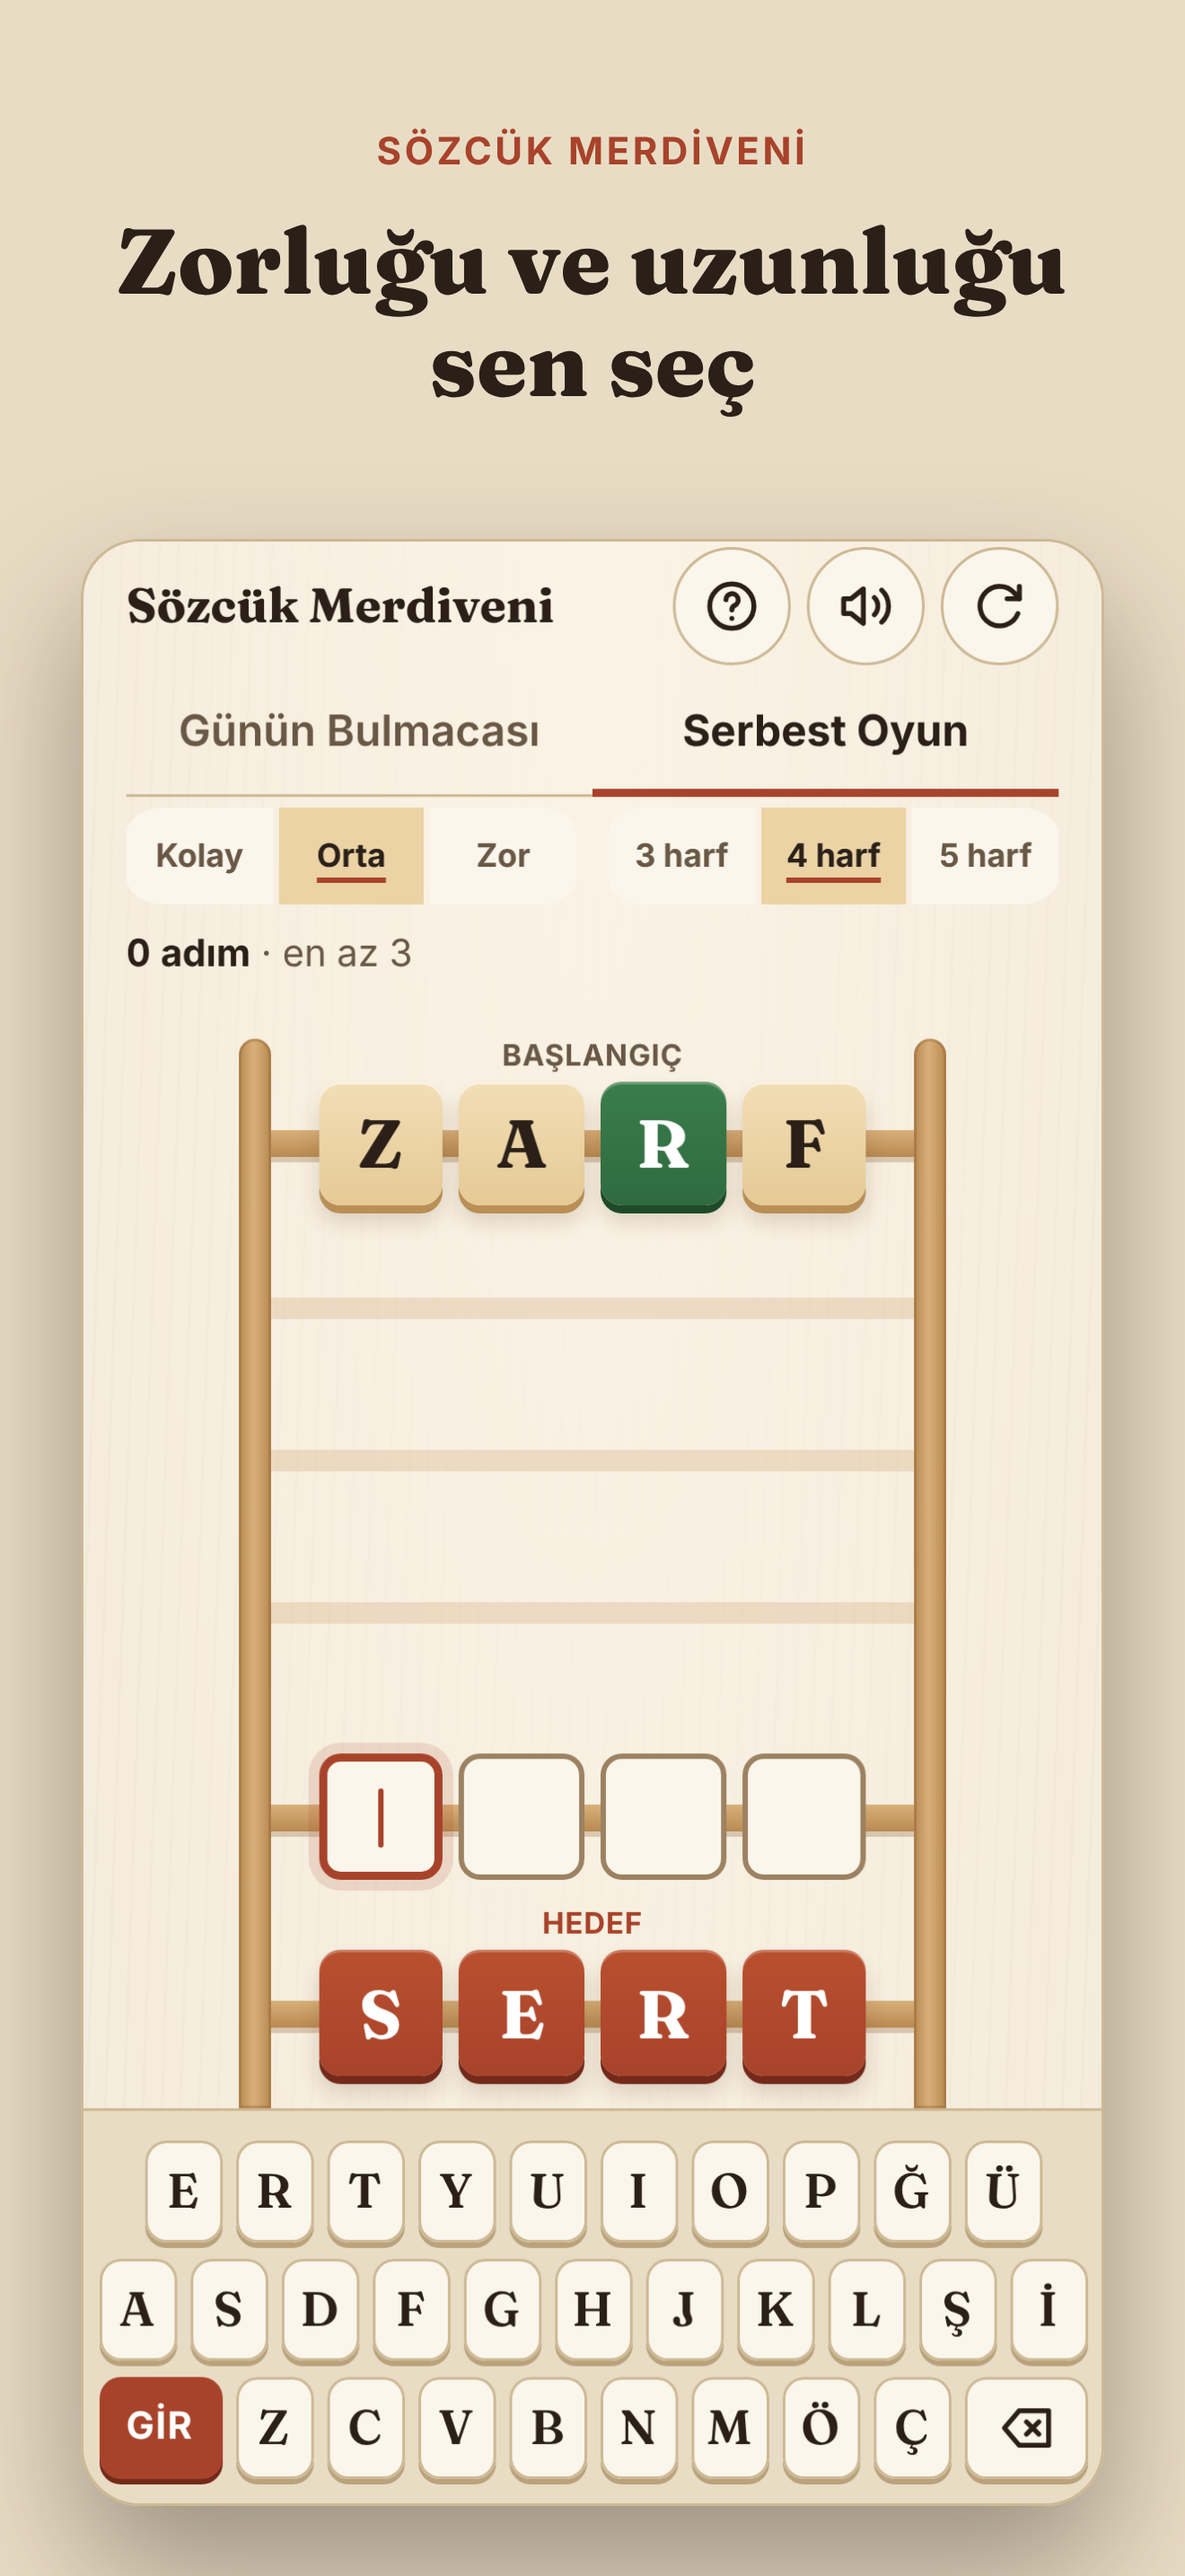
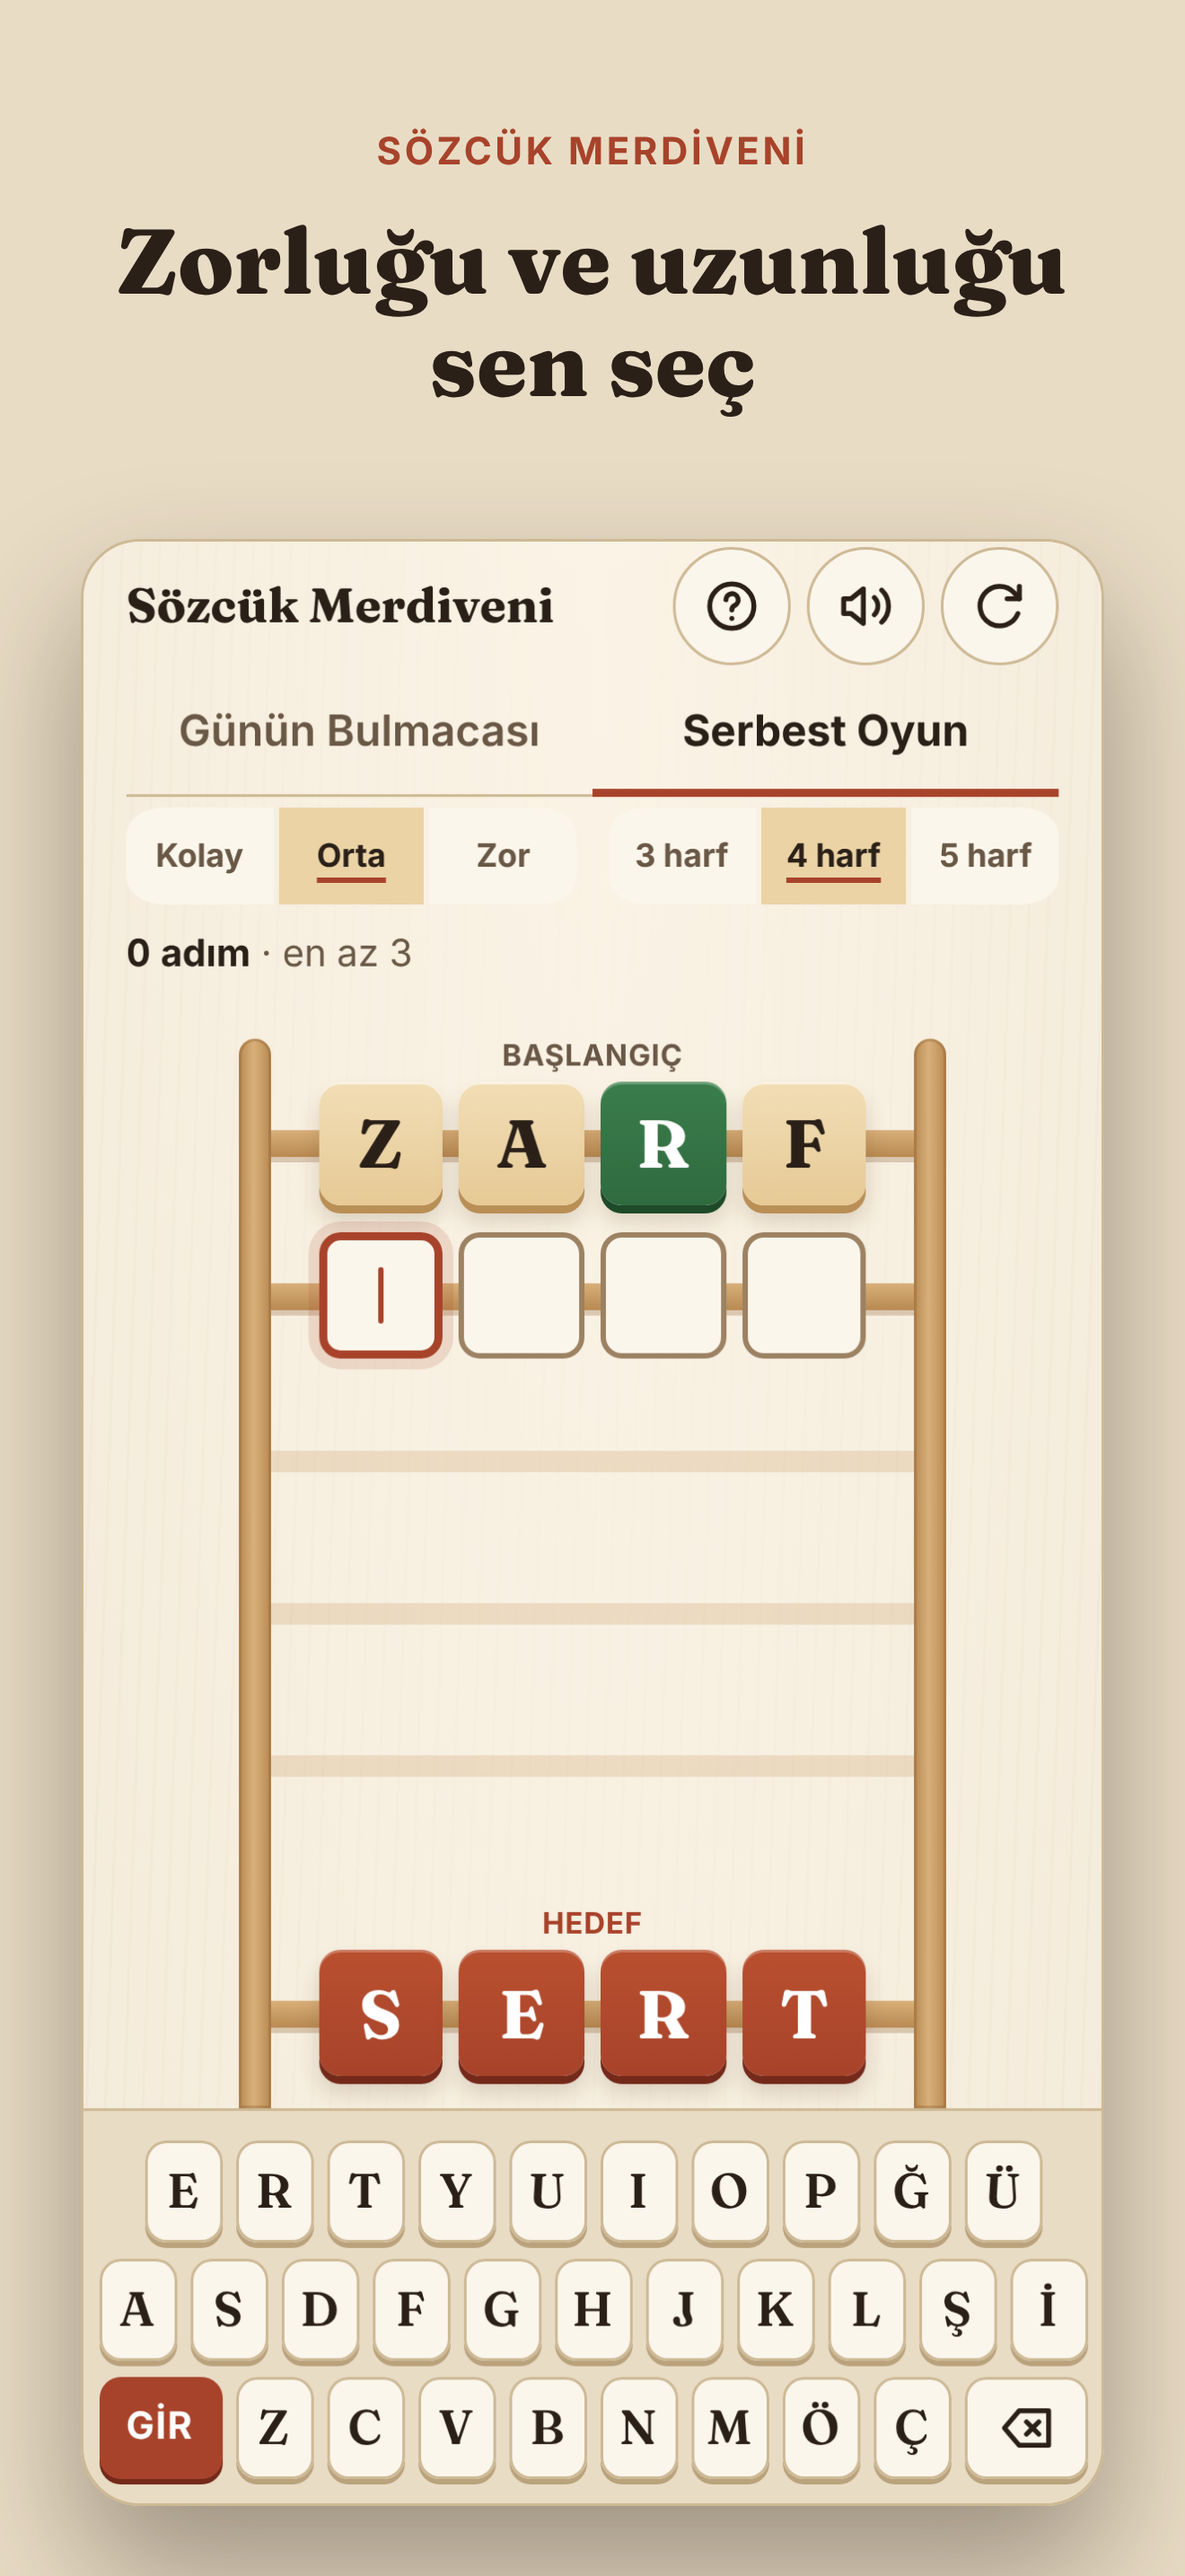
Ahşap: giriş satırı son kelimenin hemen altında
Sahibin isteği: giriş satırı HEDEF'in üstünde sabit durmak yerine son yazılan
kelimenin bir alt basamağında durur ve her adımda bir basamak iner. Altında
HEDEF'e kalan boş basamaklar, en altta HEDEF.

- Giriş basamağı kayan bölüme (.steps) taşındı; uzun merdivende bölüm sona
  kayar: son kelime, giriş satırı ve HEDEF görünür kalır.
- .steps en az iki basamak boyunda: kısa ve yatay ekranda son kelime ile
  giriş satırı görünür, merdiven klavyeye taşmaz (önceki düzeltme korunur).
- Test: giriş satırı son kelimenin hemen altında; HEDEF ile arasında boş
  basamak var.

Claude-Session: https://claude.ai/code/session_01C8YUUGzBwuF5YnZnuwjbBR

Changed region(s): [[0.2174, 0.4655, 0.7765, 0.5586], [0.2174, 0.6517, 0.7765, 0.7448]]

diff --git a/style.css b/style.css
@@ -376,8 +376,9 @@ button { font: inherit; color: inherit; }
 
 /* ---------- Oyun alanı: merdiven ----------
    Yukarıdan aşağı okunur: BAŞLANGIÇ en üstte, her adım bir alt basamağa,
-   HEDEF en altta (klavyenin hemen üstünde), giriş satırı HEDEF'in üstünde.
-   Uzun merdivende yalnızca üst bölüm (.steps) kayar; giriş ve HEDEF sabittir. */
+   giriş satırı son kelimenin hemen altında, sonra boş basamaklar, HEDEF en
+   altta (klavyenin hemen üstünde). Uzun merdivende yalnızca üst bölüm
+   (.steps) kayar: eski basamaklar yukarı çıkar, HEDEF sabittir. */
 .game {
   flex: 1;
   min-height: 0;                   /* Flex çocuğun taşmadan küçülebilmesi için */
@@ -419,10 +420,10 @@ button { font: inherit; color: inherit; }
 .frame::before { left: calc(50% - var(--ladder-w) / 2); }
 .frame::after  { right: calc(50% - var(--ladder-w) / 2); }
 
-/* Kayan bölüm: BAŞLANGIÇ + girilen kelimeler + boş basamaklar */
+/* Kayan bölüm: BAŞLANGIÇ + girilen kelimeler + giriş satırı + boş basamaklar */
 .steps {
   flex: 1 1 0;
-  min-height: var(--pitch);          /* Son kelime her zaman görünür: en az bir basamak */
+  min-height: calc(2 * var(--pitch));   /* Son kelime ve giriş satırı her zaman görünür */
   display: flex;
   flex-direction: column;
   gap: var(--rung-gap);
@@ -458,7 +459,7 @@ button { font: inherit; color: inherit; }
   background: linear-gradient(var(--wood-light), var(--wood-dark));
   box-shadow: 0 2px 0 var(--rung-shadow);
 }
-/* Henüz basılmamış basamaklar: giriş satırına kadar kalan boşluk */
+/* Henüz basılmamış basamaklar: giriş satırından HEDEF'e kalan boşluk */
 .ghost {
   flex: 1;
   width: calc(var(--ladder-w) - 2 * var(--space-2));
@@ -557,7 +558,7 @@ button { font: inherit; color: inherit; }
 /* Hedefe ulaşınca giriş satırı ve boş basamaklar kalkar; merdiven üstte toplanır */
 .game.bitti .input-rung,
 .game.bitti .ghost { display: none; }
-.game.bitti .steps { flex: 0 1 auto; padding-bottom: var(--rung-gap); }   /* Son bloğun gölgesi kırpılmasın */
+.game.bitti .steps { flex: 0 1 auto; min-height: var(--pitch); padding-bottom: var(--rung-gap); }   /* Son bloğun gölgesi kırpılmasın */
 /* Örnek merdiven kaymaz; kenarlığın yerine iç boşluk */
 .example .frame { padding-top: var(--space-3); }
 

diff --git a/tools/test_tarayici.js b/tools/test_tarayici.js
@@ -202,13 +202,17 @@ async function main() {
     const yol = enKisaYol(bas, hedef);
     denetle(!!yol, `${bas}→${hedef} çözülemiyor`);
     denetle(yol && yol.length === adim, `en kısa yol ${yol && yol.length} adım, words.json ${adim} diyor`);
-    // İlk adım: merdiven yukarıdan aşağı okunur — BAŞLANGIÇ, adım, giriş, HEDEF
+    // İlk adım: merdiven yukarıdan aşağı okunur — BAŞLANGIÇ, adım, giriş, boş basamaklar, HEDEF
     if (yol) await kelimeYaz(sayfa, yol[0]);
+    await sayfa.waitForTimeout(400);         // basamağın iniş animasyonu bitsin
     const duzen = await sayfa.evaluate(() => {
       const ust = (sec) => document.querySelector(sec).getBoundingClientRect().top;
       const basamak = document.querySelector("#ladder .rung");
       return {
         sira: [ust("#startWord"), ust("#ladder .rung"), ust("#inputRow"), ust("#targetWord")],
+        // Giriş satırı son yazılan kelimenin hemen altındaki basamakta
+        aralik: ust("#inputRow") - basamak.querySelector(".word-row").getBoundingClientRect().bottom,
+        hedefeUzaklik: ust("#targetWord") - document.getElementById("inputRow").getBoundingClientRect().bottom,
         etiket: basamak.querySelector(".step-label").textContent,
         degisen: basamak.querySelectorAll(".tile.changed").length,
         imlec: document.querySelectorAll("#inputRow .tile.cursor").length,
@@ -218,6 +222,8 @@ async function main() {
     });
     denetle(duzen.sira.every((y, i) => i === 0 || y > duzen.sira[i - 1]),
             `merdiven sırası BAŞLANGIÇ → adım → giriş → HEDEF değil (${duzen.sira.map(Math.round)})`);
+    denetle(duzen.aralik >= 0 && duzen.aralik <= 16, `giriş satırı son kelimenin hemen altında değil (aralık ${Math.round(duzen.aralik)} px)`);
+    denetle(duzen.hedefeUzaklik > 40, `390×844'te giriş satırı ile HEDEF arasında boş basamak kalmalı (${Math.round(duzen.hedefeUzaklik)} px)`);
     denetle(duzen.etiket === "1. adım" && duzen.durum === "1 adım", `adım etiketi '${duzen.etiket}', durum satırı '${duzen.durum}'`);
     denetle(duzen.degisen === 1, `ilk adımda ${duzen.degisen} harf "değişen" işaretli, 1 olmalı`);
     denetle(duzen.imlec === 1, "giriş satırında sıradaki harfin yeri (imleç) tek kutu olmalı");

diff --git a/index.html b/index.html
@@ -137,7 +137,7 @@
 
   <!-- ======================= OYUN ALANI ======================= -->
   <!-- Merdiven yukarıdan aşağı okunur. Üst bölüm (.steps) uzun merdivende
-       kayar; giriş satırı ve HEDEF her zaman görünür kalır. -->
+       kayar: son kelime ve altındaki giriş satırı görünür kalır; HEDEF sabittir. -->
   <main class="game" id="game">
     <div class="frame">
       <div class="steps" id="steps">
@@ -148,15 +148,14 @@
         </section>
         <!-- Girilen kelimeler: her adım bir alt basamağa eklenir -->
         <section class="ladder" id="ladder" aria-live="polite" aria-label="Girilen kelimeler"></section>
-        <!-- Henüz basılmamış basamaklar (süs) -->
+        <!-- Giriş satırı: o an yazılan kelime; son girilen kelimenin hemen altında -->
+        <section class="rung input-rung">
+          <div class="word-row input-row" id="inputRow" aria-label="Kelime girişi" aria-live="polite"></div>
+          <span class="step-label" id="inputLabel"></span>
+        </section>
+        <!-- Henüz basılmamış basamaklar: HEDEF'e kalan yol (süs) -->
         <div class="ghost" aria-hidden="true"></div>
       </div>
-
-      <!-- Giriş satırı: o an yazılan kelime -->
-      <section class="rung input-rung">
-        <div class="word-row input-row" id="inputRow" aria-label="Kelime girişi" aria-live="polite"></div>
-        <span class="step-label" id="inputLabel"></span>
-      </section>
 
       <!-- En altta: hedef kelime (sabit) -->
       <section class="rung target-rung">

diff --git a/app.js b/app.js
@@ -287,8 +287,8 @@ class WordLadder {
     this.hideModal();
   }
 
-  // Zincirin n. kelimesini merdivenin en altına basamak olarak ekler ve
-  // merdiveni sona kaydırır (uzun merdivende eski basamaklar yukarı çıkar)
+  // Zincirin n. kelimesini son basamak olarak ekler (giriş satırı onun hemen
+  // altındadır) ve merdiveni sona kaydırır: eski basamaklar yukarı çıkar
   addRung(n) {
     const rung = document.createElement("div");
     rung.className = "rung";

diff --git a/ekip/tasarim-sistemi.md b/ekip/tasarim-sistemi.md
@@ -124,13 +124,15 @@ Kalınlık `--fw-medium` (500), `--fw-semi` (600), `--fw-bold` (700),
 ## Bileşenler
 
 **Merdiven** (`.game` → `.frame`). Yukarıdan aşağı okunur: BAŞLANGIÇ en üstte,
-her adım bir alt basamağa eklenir, HEDEF en altta (klavyenin hemen üstünde),
-giriş satırı HEDEF'in hemen üstündedir. Yalnızca üst bölüm (`.steps`:
-BAŞLANGIÇ + girilen kelimeler + boş basamaklar) kayar; giriş satırı ve HEDEF
-sabittir. Her yeni adımda `.steps` sona kaydırılır: eski basamaklar yukarı
-çıkar. Bulmaca çözülünce giriş satırı ve boş basamaklar kalkar.
-Çok kısa ekranda (320×460, yatay telefon) `.steps` en az bir basamak boyunda
-kalır (son kelime hep görünür) ve sığmayan merdiven `.game` içinde kayar:
+her adım bir alt basamağa eklenir, giriş satırı son kelimenin hemen altındaki
+basamaktadır, altında HEDEF'e kalan boş basamaklar durur, HEDEF en alttadır
+(klavyenin hemen üstünde). Her adımda giriş satırı bir basamak iner. Üst bölüm
+(`.steps`: BAŞLANGIÇ + girilen kelimeler + giriş satırı + boş basamaklar)
+kayar, HEDEF sabittir. Merdiven ekrandan uzunsa `.steps` sona kaydırılır: eski
+basamaklar yukarı çıkar; son kelime, giriş satırı ve HEDEF görünür kalır.
+Bulmaca çözülünce giriş satırı ve boş basamaklar kalkar.
+Çok kısa ekranda (320×460, yatay telefon) `.steps` en az iki basamak boyunda
+kalır (son kelime ve giriş satırı hep görünür) ve sığmayan merdiven `.game` içinde kayar:
 önce son kelime ve giriş satırı görünür, HEDEF kaydırınca gelir. Merdiven
 klavyenin üstüne taşmaz.
 
@@ -189,7 +191,7 @@ başlangıç, hedef.
 - Kısa ekranda (boy ≤ 740 px) boş reklam yer tutucuları yer kaplamaz; gerçek
   reklam geldiğinde küçük telefondaki yerleşim yeniden ölçülmelidir.
 - `tools/test_tarayici.js` şunları ölçer: merdiven sırası (BAŞLANGIÇ → adım →
-  giriş → HEDEF); 360×560 ve 375×548 serbest oyunda HEDEF ve giriş satırı,
+  giriş → HEDEF) ve giriş satırının son kelimenin hemen altında olması; 360×560 ve 375×548 serbest oyunda HEDEF ve giriş satırı,
   320×460'ta giriş satırı, çözülmüş günlükte HEDEF ilk ekranda; denetimlerin
   gerçek dokunma alanı 44×44, tuş boyu 44; 320×460'ta son kelime ve giriş
   görünür, 667×375 yatayda hiçbir tuşun üstü örtülmez; fiziksel klavye
